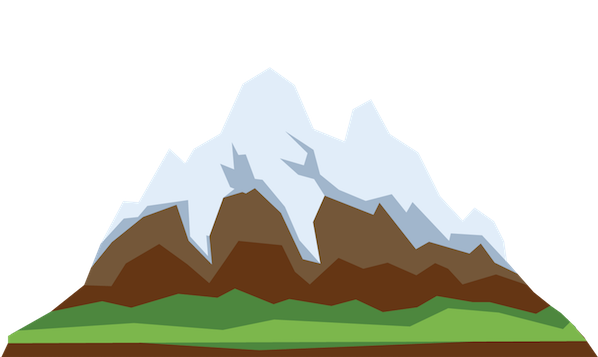
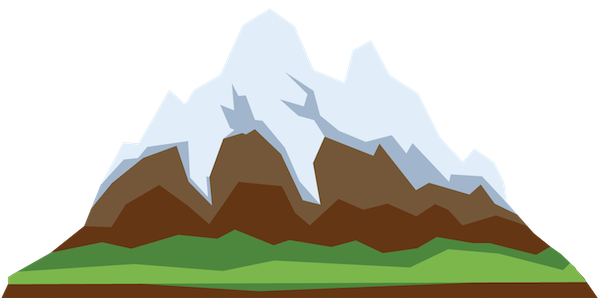
Fixed image positions for different screens
Before, the clouds inside the top container of version2.0 was positioned using absolute attribute. 

Due to this, if a user's browser was zoomed it or out, the clouds would move accordingly. This lead to cases where the clouds would block the header and intro, or cases where the clouds were just too far spread out. 

In version2.0.1, no content has changed. Only the way the elements inside the top container are laid out has changed.

Changed region(s): [[0.0, 0.0302, 0.9933, 0.9966], [0.9933, 0.9664, 1.0, 0.9966]]

diff --git a/css/styles.css b/css/styles.css
@@ -69,9 +69,9 @@ pre {
 }
 
 .bottom-cloud {
-  left:250px;
-  position: absolute;
-  top: 230px;
+  display: inline-block;
+  position: relative;
+  right: 300px;
 }
 
 .bottom-container {
@@ -111,14 +111,14 @@ pre {
   bottom: 35px;
   display: inline-block;
   height: 100px;
-  padding: 0px 30px 0px 0px;
+  padding: 0 30px 0 0;
   position: relative;
   text-align: center;
   width: 311px;
 }
 .exp-1-right {
   display: inline-block;
-  padding: 0px 0px 0px 30px;
+  padding: 0 0 0 30px;
   position: relative;
   text-align: center;
 }
@@ -126,7 +126,7 @@ pre {
 .exp-2-right {
   display: inline-block;
   height: 160px;
-  padding: 0px 0px 0px 5px;
+  padding: 0 0 0 5px;
   position: relative;
   right: 15px;
   text-align: center;
@@ -135,7 +135,7 @@ pre {
 
 .exp-2-left {
   display: inline-block;
-  padding: 0px 10px 0px 0px;
+  padding: 0 10px 0 0;
   position: relative;
   right: 58px;
   text-align: left;
@@ -160,11 +160,20 @@ pre {
 }
 
 .info-container {
+  display: inline-block;
+  padding: 75px 10px 10px 10px;
   position: relative;
-  top: 120px;
+  text-align: center;
+  height: 530px;
+  width: 80%;
 }
 
-.info-container p {
+.name{
+  margin-bottom: 7px;
+}
+
+.intro {
+  display: block;
   font-family: "Courier New", "Times New Roman";
   color: #443737;
 }
@@ -175,8 +184,13 @@ pre {
 }
 
 .mountain{
+  display: inline;
   position: relative;
-  top: 100px;
+}
+
+.mountain-container {
+  bottom: 30px;
+  position: relative;
 }
 
 .people {
@@ -226,17 +240,16 @@ pre {
 }
 
 .top-cloud {
-  position: absolute;
-  top: 50px;
-  right: 250px;
+  left: 308px;
+  position: relative;
 }
 
 .top-container {
   background-color: #d6e5fa;
-  padding-top: 20px;
+  height: 557px;
+  padding: 20px;
   position: relative;
-  height:600px;
-  width: 100%;
+  text-align: center;
 }
 
 /*************************************************************************************************/

diff --git a/index.html b/index.html
@@ -16,13 +16,15 @@
 <body>
 
   <div class="top-container">
-    <img class="top-cloud" src="images/cloud.png" alt="An image of a cloud">
     <div class="info-container">
-      <h1>Giordan Andrew.</h1>
-      <p>a computer engineering student,<br>web designer,<br>& programmer.</p>
+      <img class="top-cloud" src="images/cloud.png" alt="An image of a cloud">
+      <h1 class="name">Giordan Andrew.</h1>
+      <p class="intro">a computer engineering student,<br>web designer,<br>& programmer.</p>
+      <img class="bottom-cloud" src="images/cloud.png" alt="An image of a cloud">
+      <div class="mountain-container">
+          <img class="mountain" src="images/mountain.png" alt="An image of a mountain">
+      </div>
     </div>
-    <img class="bottom-cloud" src="images/cloud.png" alt="An image of a cloud">
-    <img class="mountain" src="images/mountain.png" alt="An image of a mountain">
   </div>
 
   <div class="middle-container">
